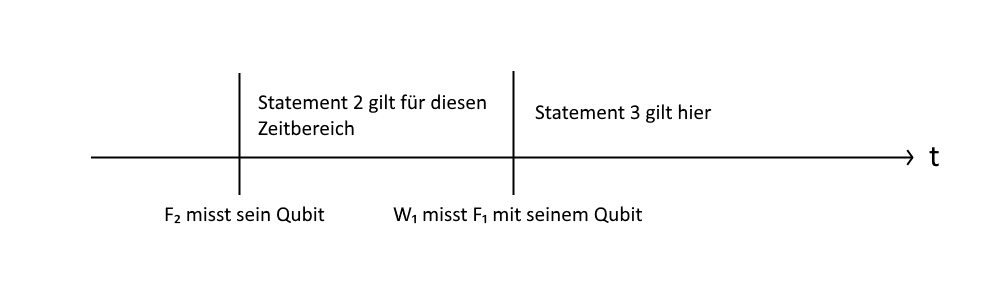
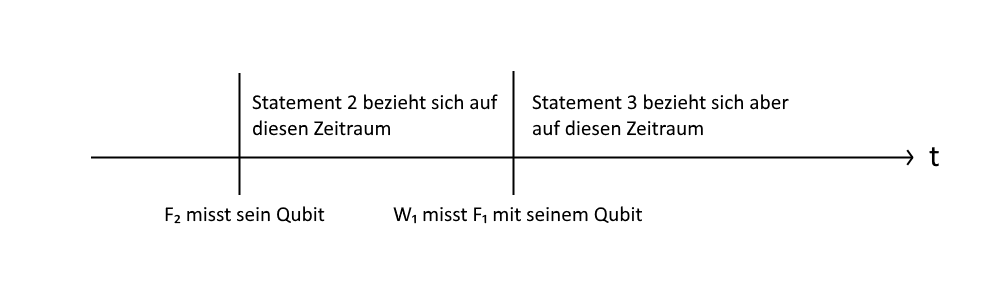
update

Changed region(s): [[0.527, 0.3, 0.806, 0.45], [0.248, 0.3, 0.496, 0.45]]

diff --git a/version2.tex b/version2.tex
@@ -36,7 +36,7 @@ Wir betrachten das Gedankenexperiment zu der Zeit, nachdem $F_2$ sein Qubit mit 
 \begin{itemize}
 	\item \textbf{Statement 2 von} $F_2$: ``Wenn ich $\ket{\uparrow}$ messe, dann hat $F_1$ $\ket{t}$ gemessen.''
 \end{itemize}
-Hier ist es sehr wichtig zu bemerken, dass wenn dies der Fall ist, $F_2$ $F_1$'s Qubit in der Standardbasis mitgemessen hat. Dies wäre nicht der Fall, wenn $F_2$ $\ket{\downarrow}$ gemessen hätte. $W_1$ führt nun seine Messung aus. Da er nur $F_1$'s Qubit, beziehungsweise dessen Labor, misst, ist es auch wichtig, dass die Qubits, beziehungsweise die Labore, von $F_1$ und $F_2$ voneinander isoliert sind, wie dies in einem Quantenregister von einem Quantencomputer der Fall wäre. Da $W_1$ $F_1$'s Qubit in einer Superposition misst, endet es schliesslich auch in einer Superposition. Hier tritt das Problem auf: Da $F_2$ den Ablauf kennt, weiss $F_2$ nun dass obwohl er vorhin $\ket{\uparrow}$ gemessen hat, das Qubit von $F_1$ sich wieder in einer Superposition befindet. Er kommt also selber zum Schluss, dass sein Statement nicht mehr zu dieser Zeit gilt! Wenn am Schluss vom Experiment die Statements in der umgekehrten Reihenfolge aufeinander angewendet werden, kann Statement 2 nicht mehr aus Statement 3 gefolgert werden. Im originalen Artikel wird am Schluss Statement 2 falsch interpretiert, nämlich als: ``Wenn ich $\ket{\uparrow}$ messe, dann wird ab dann, während des Experiments, $F_1$ und sein Labor im Zustand $\ket{t}$ sein.''
+Hier ist es sehr wichtig zu bemerken, dass wenn dies der Fall ist, $F_2$ $F_1$'s Qubit in der Standardbasis mitgemessen hat. Dies wäre nicht der Fall, wenn $F_2$ $\ket{\downarrow}$ gemessen hätte. $W_1$ führt nun seine Messung aus. Da er nur $F_1$'s Qubit, beziehungsweise dessen Labor, misst, ist es auch wichtig, dass die Qubits, beziehungsweise die Labore, von $F_1$ und $F_2$ voneinander isoliert sind, wie dies in einem Quantenregister von einem Quantencomputer der Fall wäre. Da $W_1$ $F_1$'s Qubit in einer Superposition misst, endet es schliesslich auch in einer Superposition. Hier tritt das Problem auf: Da $F_2$ den Ablauf kennt, weiss $F_2$ nun dass obwohl er vorhin $\ket{\uparrow}$ gemessen hat, das Qubit von $F_1$ sich wieder in einer Superposition befindet. Er kommt also selber zum Schluss, dass sein Statement sich auf die Zeit vor $W_1$'s Messung bezieht, und sich nicht mehr auf die jetzige Zeit! Wenn am Schluss vom Experiment die Statements in der umgekehrten Reihenfolge aufeinander angewendet werden, kann Statement 2 nicht mehr aus Statement 3 gefolgert werden. Im originalen Artikel wird am Schluss Statement 2 falsch interpretiert, nämlich als: ``Wenn ich $\ket{\uparrow}$ messe, dann wird ab dann, während des Experiments, $F_1$ und sein Labor im Zustand $\ket{t}$ sein.''
 
 \begin{figure}[!htb]
 \begin{floatrow}[1]\
